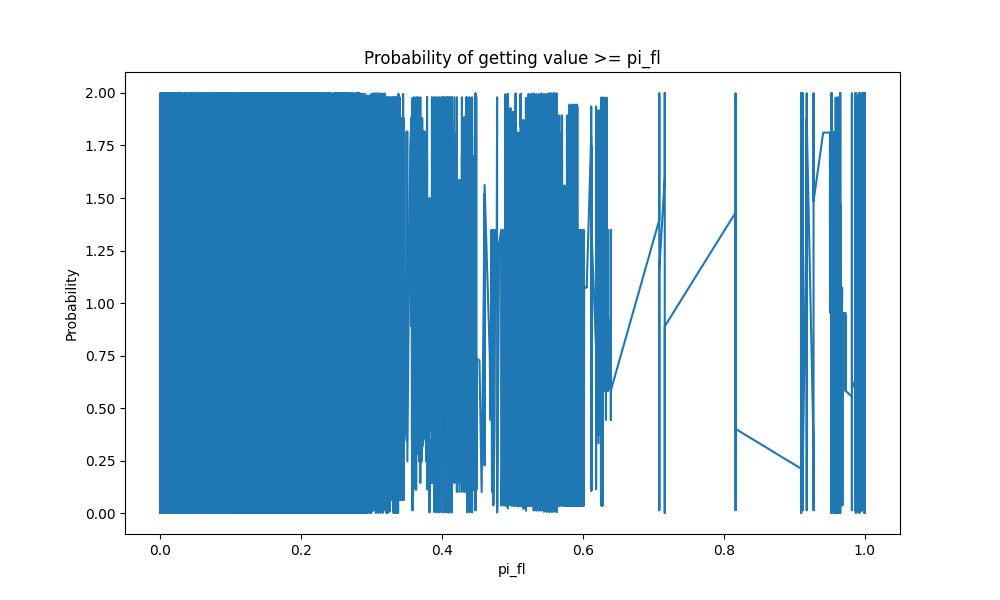
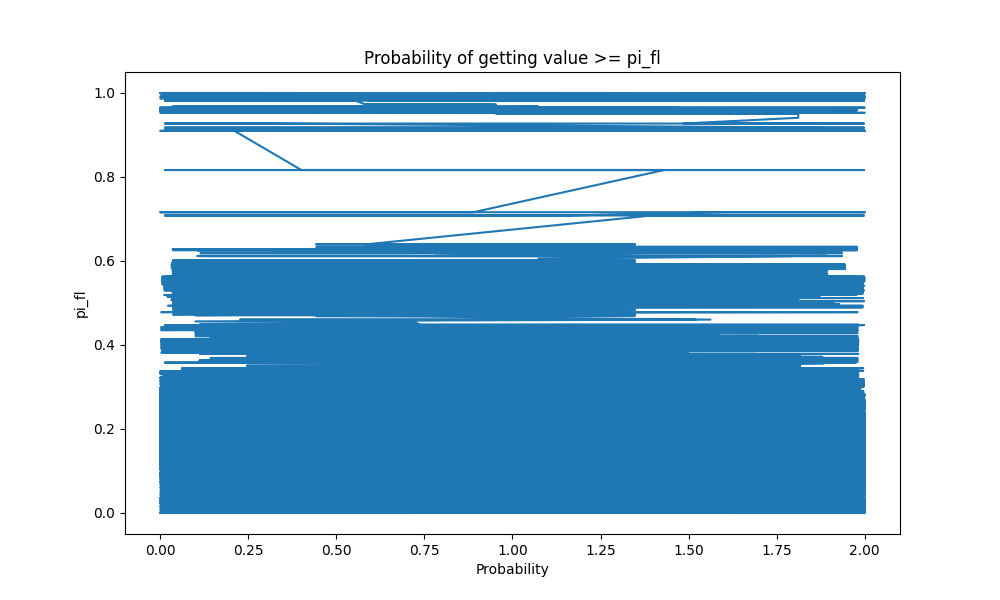
update plots

diff --git a/suppress_threshold_attack.py b/suppress_threshold_attack.py
@@ -105,11 +105,15 @@ def do_plots():
     plot_path = os.path.join(attack_path, 'pr_curve.png')
     plt.savefig(plot_path)
 
-    # Sort the DataFrame by 'pi_fl' in descending order
-    X_test_all_sorted = X_test_all.sort_values(by='pi_fl', ascending=False)
+    # Sort the DataFrame by 'pi_fl' in descending order and reset the index
+    X_test_all_sorted = X_test_all.sort_values(by='pi_fl', ascending=False).reset_index(drop=True)
 
     # Create a new column 'probability'
-    X_test_all_sorted['probability'] = (X_test_all_sorted.index + 1) / len(X_test_all_sorted)
+    X_test_all_sorted['probability'] = (len(X_test_all_sorted) - X_test_all_sorted.index) / len(X_test_all_sorted)
+
+    # Create a new column 'probability'
+    #X_test_all_sorted['probability'] = (X_test_all_sorted.index + 1) / len(X_test_all_sorted)
+
     # Plot 'probability' vs 'pi_fl'
     plt.figure(figsize=(10, 6))
     plt.plot(X_test_all_sorted['probability'], X_test_all_sorted['pi_fl'])
